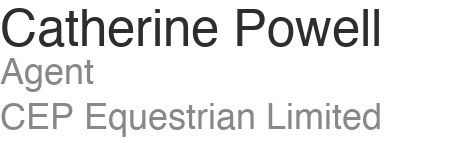
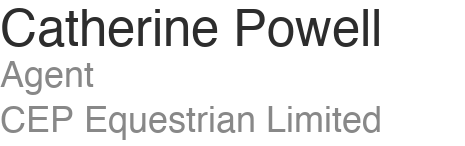
Add files via upload

Changed region(s): [[0.0, 0.028, 0.84, 0.3357], [0.0, 0.6993, 0.8711, 0.979], [0.0, 0.3916, 0.2178, 0.6713]]

diff --git a/signature_ios.html b/signature_ios.html
@@ -5,14 +5,15 @@
 
 <table cellpadding="0" cellspacing="0" border="0" width="330" style="width:330px;table-layout:fixed;">
   <tr>
-    <td width="150" valign="top" style="width:150px;border-right:2px solid #5DC4A0;padding-right:8px;vertical-align:top;">
-      <img src="https://mitchelpowell.github.io/cep-equestrian/name_card.png" width="150" height="47" border="0" style="display:block;border:0;">
+    <td width="155" valign="top" style="width:155px;vertical-align:top;">
+      <img src="https://mitchelpowell.github.io/cep-equestrian/name_card.png" width="155" height="48" border="0" style="display:block;border:0;">
     </td>
-    <td width="172" valign="top" style="width:172px;padding-left:10px;vertical-align:top;">
-      <a href="tel:+447397902597" style="display:block;text-decoration:none;color:#555555;font-size:12px;line-height:1.6;">
+    <td width="2" bgcolor="#5DC4A0" style="width:2px;background-color:#5DC4A0;">&nbsp;</td>
+    <td width="163" valign="top" style="width:163px;padding-left:10px;vertical-align:top;">
+      <a href="tel:+447397902597" style="display:block;text-decoration:none;color:#555555;font-size:12px;line-height:1.8;">
         <img src="https://mitchelpowell.github.io/cep-equestrian/icon_phone.png" width="16" height="16" border="0" style="vertical-align:middle;border:0;"> 07397 902 597
       </a>
-      <a href="https://cepequestrian.com" style="display:block;text-decoration:none;color:#555555;font-size:12px;line-height:1.6;">
+      <a href="https://cepequestrian.com" style="display:block;text-decoration:none;color:#555555;font-size:12px;line-height:1.8;">
         <img src="https://mitchelpowell.github.io/cep-equestrian/icon_link.png" width="16" height="16" border="0" style="vertical-align:middle;border:0;"> cepequestrian.com
       </a>
     </td>
